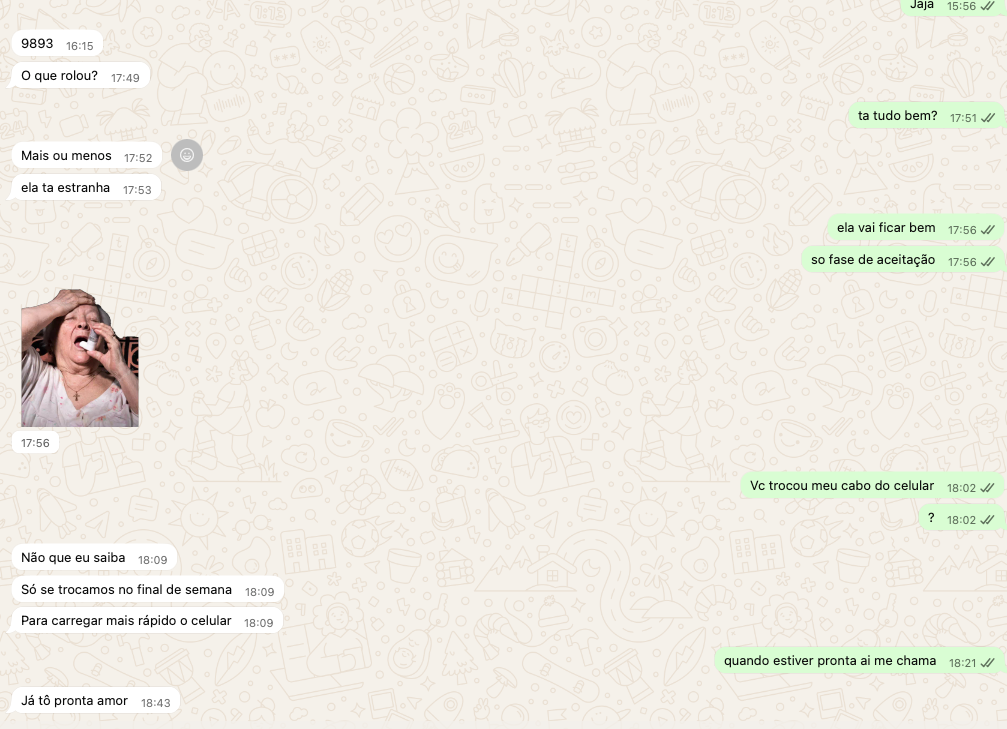
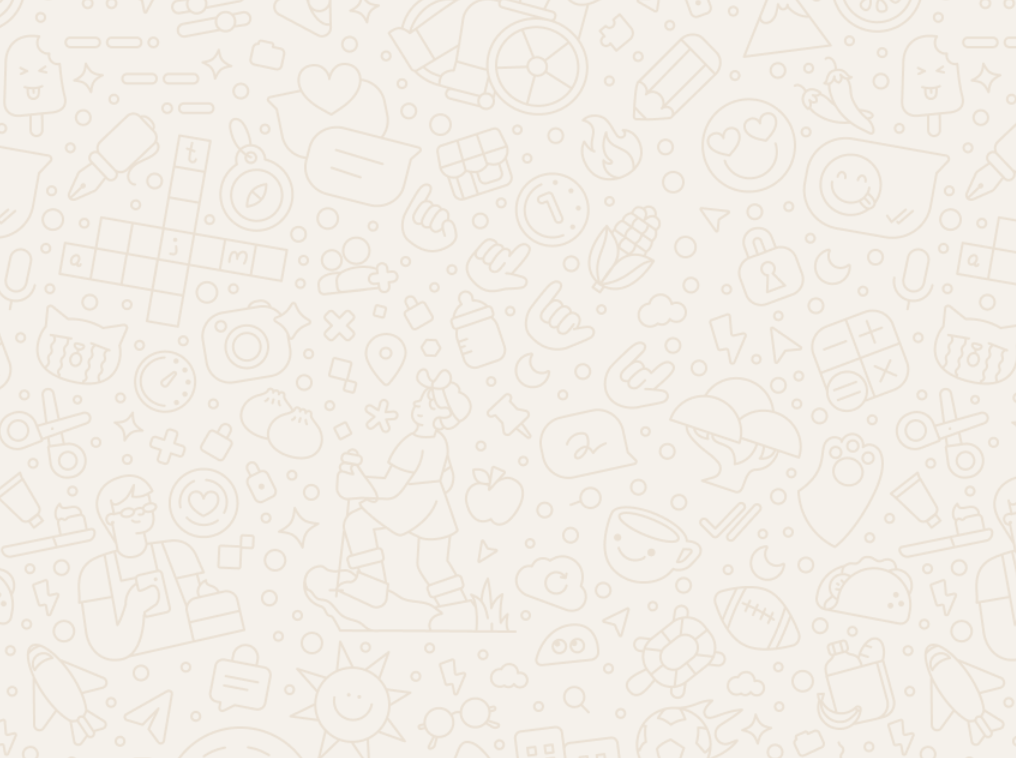
feat(sync): aplica textura 100% oficial exata do WhatsApp Web no fundo do chat

diff --git a/src/components/admin/hr-attendance/HrAttendanceClientPage.tsx b/src/components/admin/hr-attendance/HrAttendanceClientPage.tsx
@@ -580,16 +580,17 @@ export function HrAttendanceClientPage({ currentUser, allUsers }: Props) {
                                     </div>
                                 </div>
 
-                                {/* Chat WhatsApp Real com Fundo Oficial Limpo */}
+                                {/* Chat WhatsApp Real com Fundo Oficial Exato */}
                                 {chatRightTab === "chat" && (
                                     <div className="flex-1 flex flex-col overflow-hidden bg-[#efeae2] relative">
-                                        {/* Papel de Parede Doodle SVG Oficial Limpo */}
+                                        {/* Papel de Parede Oficial 100% Exato do WhatsApp Web */}
                                         <div
-                                            className="absolute inset-0 bg-[#efeae2] bg-repeat opacity-80 pointer-events-none z-0"
-                                            style={{ backgroundImage: `url('/whatsapp-doodle-bg.svg')`, backgroundSize: '400px 400px' }}
+                                            className="absolute inset-0 bg-[#efeae2] bg-repeat opacity-95 pointer-events-none z-0"
+                                            style={{ backgroundImage: `url('/whatsapp-bg-official.png')`, backgroundSize: '500px 380px' }}
                                         />
 
                                         <div className="flex-1 overflow-y-auto p-4 space-y-2.5 relative z-10">
+
 
                                             {ticketDetail.messages?.map((msg: any) => {
                                                 const isAttendant = msg.senderType === "ATTENDANT" || msg.fromMe === true;
